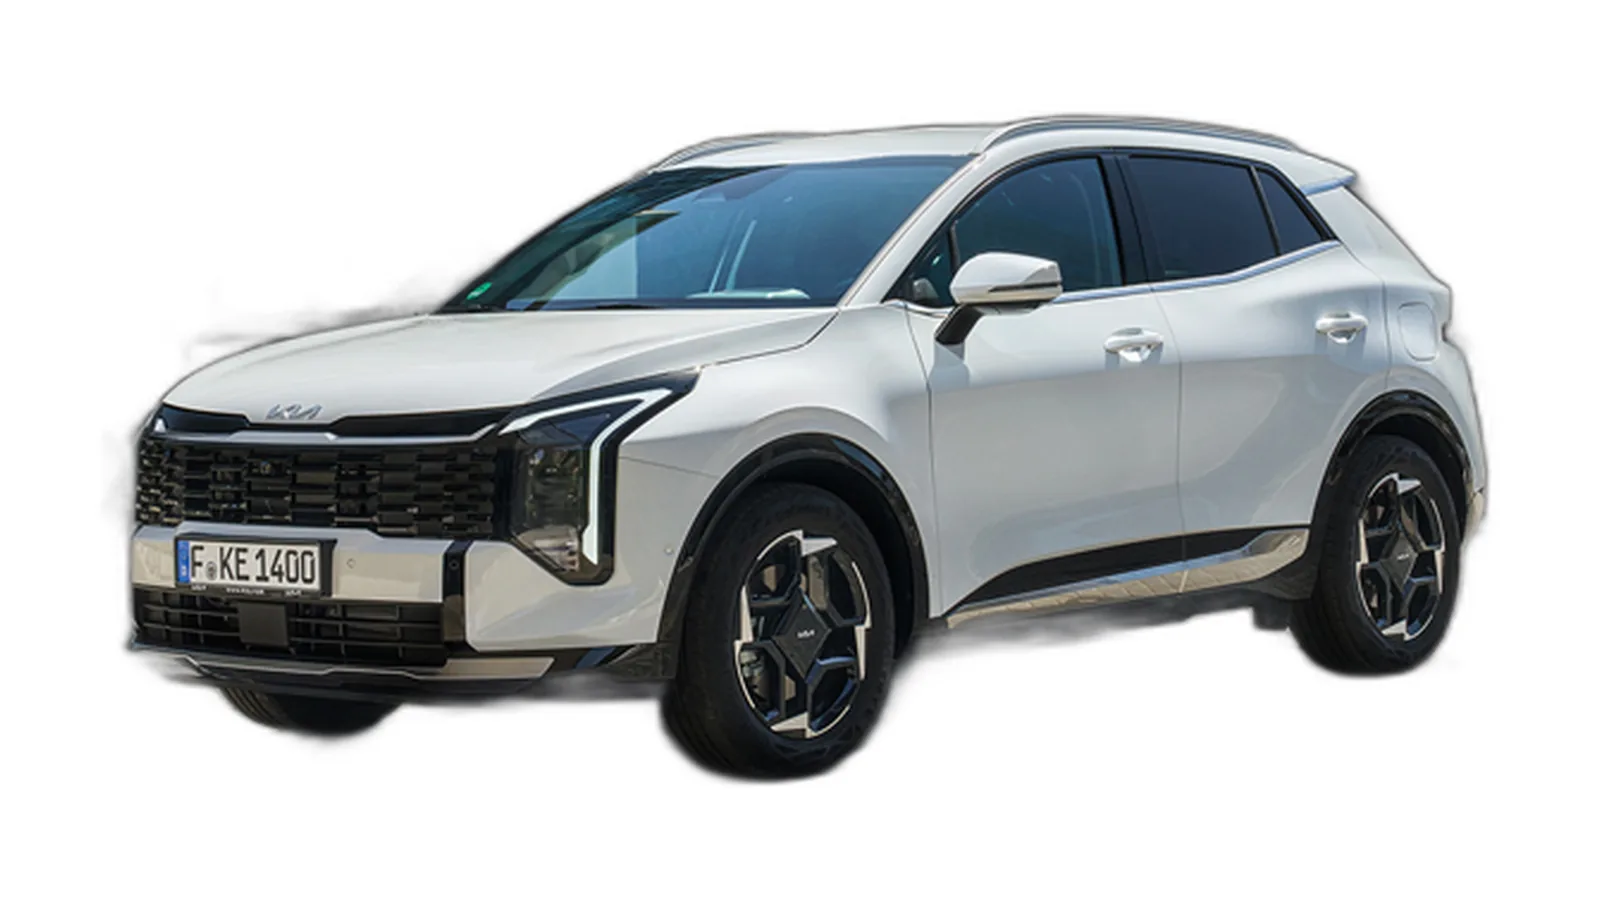
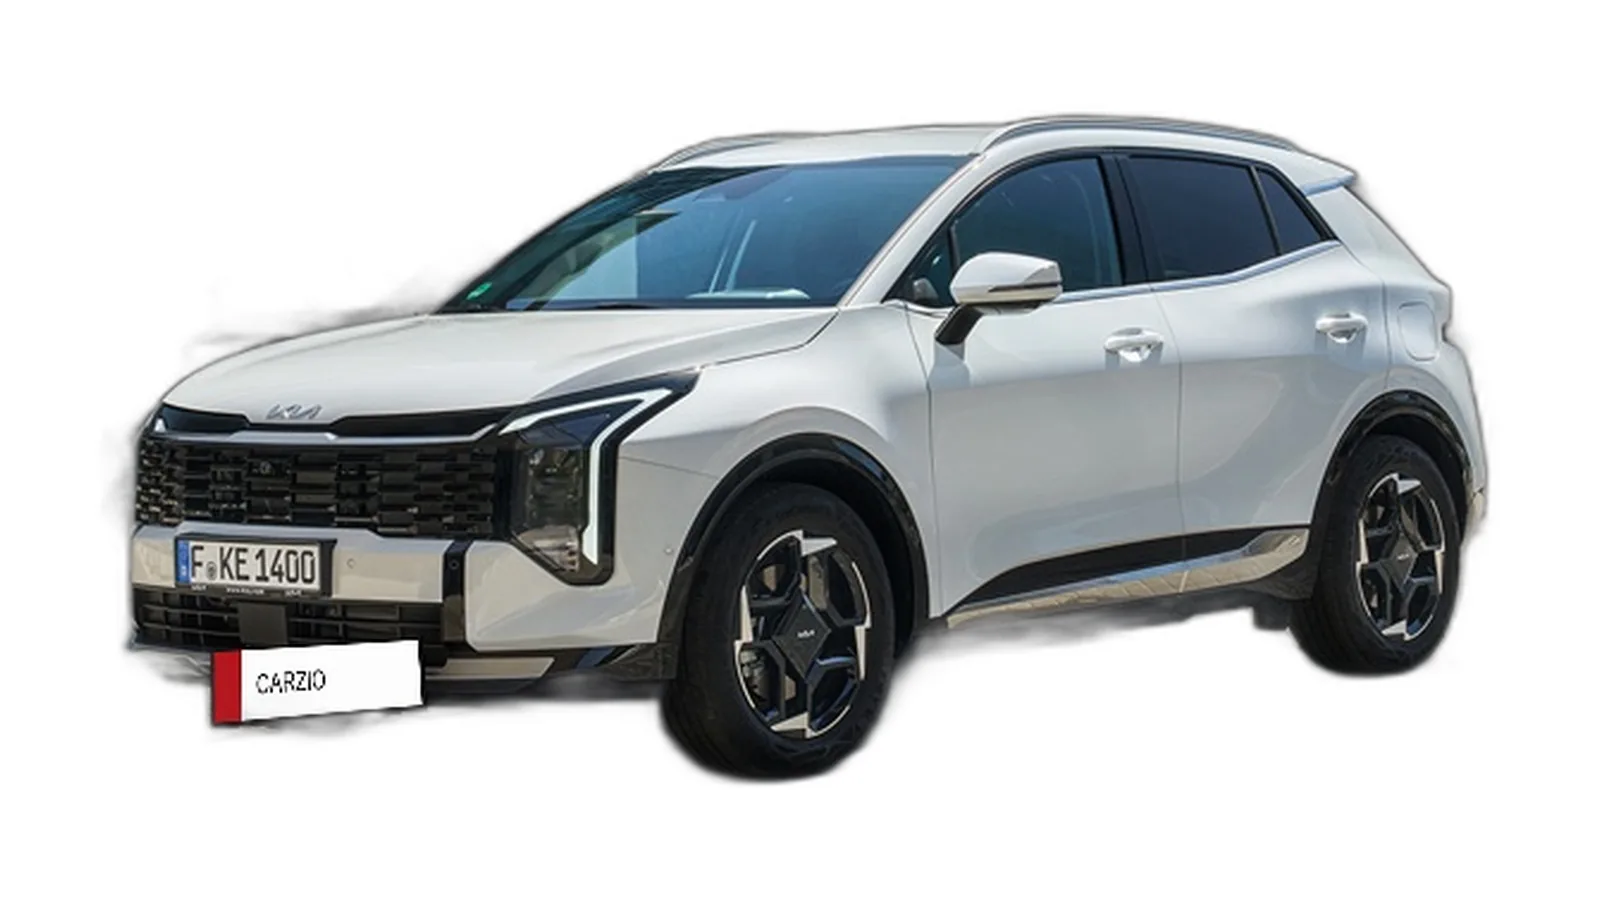
Finalize fleet order, Kia plate, homepage slides, category navigation and content image logic

Changed region(s): [[0.0938, 0.7156, 0.2812, 0.84], [0.3125, 0.7467, 0.4062, 0.8089]]

diff --git a/src/pages/BlogHub.tsx b/src/pages/BlogHub.tsx
@@ -150,18 +150,6 @@ export default function BlogHub() {
           </section>
         )}
 
-        <section className="mx-auto max-w-6xl px-4 pb-12">
-          <div className="mb-5 flex items-end justify-between gap-4">
-            <h2 className="font-heading text-xl font-semibold text-white">{t('blog.allArticles')}</h2>
-            <span className="text-sm text-white/55">{t('blog.articlesCount', { count: posts.length })}</span>
-          </div>
-          <div className="grid gap-5 md:grid-cols-2 lg:grid-cols-3">
-            {rest.map((post) => (
-              <BlogCard key={`${post.lang}-${post.slug}`} post={post} contentLang={contentLang} />
-            ))}
-          </div>
-        </section>
-
         <section className="mx-auto max-w-6xl px-4 pb-16">
           <h2 className="mb-5 font-heading text-xl font-semibold text-white">{t('blog.categories')}</h2>
           <div className="grid gap-4 md:grid-cols-3">
@@ -181,6 +169,18 @@ export default function BlogHub() {
                 />
               );
             })}
+          </div>
+        </section>
+
+        <section className="mx-auto max-w-6xl px-4 pb-12">
+          <div className="mb-5 flex items-end justify-between gap-4">
+            <h2 className="font-heading text-xl font-semibold text-white">{t('blog.allArticles')}</h2>
+            <span className="text-sm text-white/55">{t('blog.articlesCount', { count: posts.length })}</span>
+          </div>
+          <div className="grid gap-5 md:grid-cols-2 lg:grid-cols-3">
+            {rest.map((post) => (
+              <BlogCard key={`${post.lang}-${post.slug}`} post={post} contentLang={contentLang} />
+            ))}
           </div>
         </section>
 

diff --git a/src/data/fleet.ts b/src/data/fleet.ts
@@ -92,7 +92,7 @@ const fleetModels: CarModel[] = [
     ac: true,
     km: 'Unlimited',
     model: '2026',
-    description: 'New 2026 Dacia Duster with manual transmission and a diesel engine, ready for city driving and longer trips.',
+    description: 'The 2026 Dacia Duster with manual transmission: a practical five-seat SUV for city driving and longer trips around Morocco. It offers generous luggage space, air conditioning and unlimited mileage.',
     extras: [
       { name: 'Baby Seat', price: 0, perDay: true },
       { name: 'Booster Seat', price: 0, perDay: true },
@@ -231,25 +231,6 @@ const fleetModels: CarModel[] = [
       { name: 'Booster Seat', price: 0, perDay: true },
     ],
   },
-  {
-    id: 'volkswagen-touareg',
-    name: 'VOLKSWAGEN TOUAREG',
-    type: 'SUV',
-    pricePerDay: 100,
-    image: '/images/fleet/volkswagen-touareg.webp',
-    seats: 5,
-    doors: 5,
-    suitcases: 5,
-    transmission: 'Automatic',
-    ac: true,
-    km: 'Unlimited',
-    model: '2026',
-    description: 'Luxury SUV with premium comfort and powerful performance.',
-    extras: [
-      { name: 'Baby Seat', price: 0, perDay: true },
-      { name: 'Booster Seat', price: 0, perDay: true },
-    ],
-  },
 ];
 
 const carFeatures: Record<string, { gps: boolean; touchscreen: boolean }> = {
@@ -265,7 +246,6 @@ const carFeatures: Record<string, { gps: boolean; touchscreen: boolean }> = {
   'kia-sportage': { gps: true, touchscreen: true },
   'vw-troc-automatic': { gps: true, touchscreen: true },
   'hyundai-tucson': { gps: true, touchscreen: true },
-  'volkswagen-touareg': { gps: true, touchscreen: true },
 };
 
 export const fleet: Car[] = fleetModels.map((car) => ({

diff --git a/src/data/faq.ts b/src/data/faq.ts
@@ -32,13 +32,13 @@ const CATEGORY_IMAGES: Record<string, FaqCategoryImage> = {
     },
   },
   conditions: {
-    image: '/images/journal/carzio-driver-dacia.webp',
+    image: '/images/journal/carzio-grey-fleet-front.webp',
     alt: {
-      fr: "Conducteur avec sa Dacia à l'aéroport d'Agadir",
-      en: 'Driver with a Dacia at Agadir airport',
-      de: 'Fahrer mit einem Dacia am Flughafen Agadir',
-      es: 'Conductor con un Dacia en el aeropuerto de Agadir',
-      pl: 'Kierowca z Dacią na lotnisku w Agadirze',
+      fr: "Voitures de location prêtes à l'aéroport d'Agadir",
+      en: 'Rental cars ready at Agadir airport',
+      de: 'Mietwagen bereit am Flughafen Agadir',
+      es: 'Coches de alquiler listos en el aeropuerto de Agadir',
+      pl: 'Samochody na wynajem gotowe na lotnisku w Agadirze',
     },
   },
   assurance: {
@@ -62,13 +62,13 @@ const CATEGORY_IMAGES: Record<string, FaqCategoryImage> = {
     },
   },
   'conduite-maroc': {
-    image: '/images/journal/carzio-bordeaux-sign.webp',
+    image: '/images/journal/faq-duster-sand.webp',
     alt: {
-      fr: "Panneau Agadir Al Massira à l'aéroport",
-      en: 'Agadir Al Massira airport sign',
-      de: 'Schild am Flughafen Agadir Al Massira',
-      es: 'Señal del aeropuerto Agadir Al Massira',
-      pl: 'Znak lotniska Agadir Al Massira',
+      fr: 'Dacia Duster roulant sur une piste de sable',
+      en: 'Dacia Duster driving on a sandy track',
+      de: 'Dacia Duster auf einer Sandpiste',
+      es: 'Dacia Duster circulando por una pista de arena',
+      pl: 'Dacia Duster jadąca piaszczystą drogą',
     },
   },
 };

diff --git a/src/components/Fleet.tsx b/src/components/Fleet.tsx
@@ -11,7 +11,7 @@ interface FleetProps {
 export default function Fleet({ onBook, featured }: FleetProps) {
   const { t } = useTranslation();
   const [priceOverrides, setPriceOverrides] = useState<Record<string, number>>({});
-  // Homepage shows 8 cars, all under €50/day; the Cars page still shows all 12.
+  // Homepage features six Dacia models; the Cars page shows the full rental fleet.
   const featuredIds = [
     'dacia-sandero-stepway',
     'dacia-sandero-streetway',

diff --git a/docs/image-inventory.md b/docs/image-inventory.md
@@ -1,76 +1,72 @@
-# Content image inventory
+# Carzio content image inventory
 
-Last updated: 2026-11-08
+Last updated: 2026-11-09
 
-This file tracks the photographs used on the Blog, News and FAQ pages. No photograph is reused on more than one of those pages. The only exceptions are the brand logo and small interface icons.
+This is the image map used by the Blog, News and FAQ pages. No photograph is reused between those pages (FR and EN versions of the same article intentionally share one cover image).
 
-## Legend
+## Internet photographs used (2)
 
-- **Source**: `owner` = owner-supplied photograph in `New image/`, `news blog/` or `inspiration/`; `project` = existing project asset under `public/images`; `internet` = third-party photograph downloaded into `public/images/journal`.
-- **Processed**: every `public/images/journal/*.webp` and `public/images/fleet/*.webp` is 1600×900 WebP, 16:9, with the subject kept inside the frame.
+| File | Source | Author | License |
+|---|---|---|---|
+| `public/images/journal/touchscreen-carplay.webp` | [2023 Volkswagen ID.4 running wireless CarPlay](https://commons.wikimedia.org/wiki/File:2023_Volkswagen_ID.4_running_wireless_CarPlay.jpg) | Sunnyboy122 | CC0 |
+| `public/images/journal/touchscreen-navigation.webp` | [Toyota Aygo Mid 2018 Apple Carplay Integration](https://commons.wikimedia.org/wiki/File:Toyota_Aygo_Mid_2018_Apple_Carplay_Integration.jpg) | Butterhimmel | CC BY-SA 4.0 |
 
-## Internet photographs (3 only)
+Both are 16:9 WebP derivatives with a subtle Carzio logo watermark.
 
-| File | Source title | Author | License | Used on |
-|---|---|---|---|---|
-| `public/images/journal/age-driving-licence.webp` | UK driving licence (Pexels photo 45113) | Dom J | Pexels License | Blog article: Age, licence and drivers |
-| `public/images/journal/touchscreen-carplay.webp` | 2023 Volkswagen ID.4 running wireless CarPlay | Sunnyboy122 | CC0 | News category: Fleet & models |
-| `public/images/journal/touchscreen-navigation.webp` | Toyota Aygo Mid 2018 Apple CarPlay integration | Butterhimmel | CC BY-SA 4.0 | News article: GPS and touchscreen |
+## Owner-supplied and project photographs
 
-## Owner-supplied photographs used
-
-| Output file | Original source | Used on |
+| Output | Source | Used on |
 |---|---|---|
-| `carzio-booking-pickup.webp` | `New image/16.22.14 (1).jpeg` | Blog article: Renting a car in Agadir |
-| `carzio-wash-inspection.webp` | `news blog/16.24.24.jpeg` | Blog article: Standard or full insurance |
-| `carzio-airport-jogger.webp` | `New image/16.22.14 (2).jpeg` | News article: Agadir Al Massira airport delivery |
-| `carzio-documents-airport.webp` | `New image/16.22.14 (3).jpeg` | News category: Booking & paperwork |
-| `carzio-airport-fleet.webp` | `New image/16.24.24 (2).jpeg` | News category: Airports & pickup |
+| `carzio-booking-pickup.webp` | `New image/16.22.14 (1).jpeg` | Blog: Renting a car in Agadir |
+| `carzio-wash-inspection.webp` | `news blog/16.24.24.jpeg` | Blog: Standard or full insurance |
+| `carzio-driver-dacia.webp` | `inspiration/19.04.24.jpeg` | Blog: Age, licence and drivers |
+| `carzio-grey-fleet-side.webp` | `inspiration/19.10.45 (3).jpeg` | Blog category: Booking & payment |
+| `carzio-grey-fleet-airport.webp` | `news blog/16.24.23.jpeg` | Blog category: Insurance & excess |
+| `carzio-grey-fleet-vertical.webp` | `news blog/16.24.24 (2).jpeg` | Blog category: Age, licence & driving |
 | `carzio-new-routes.webp` | `New image/16.24.24.jpeg` | News hub hero |
-| `carzio-inspection-pair.webp` | `news blog/16.24.24 (1).jpeg` | News category: Insurance & deposit |
-| `news-family-group.webp` | `public/images/3.jpg` | News article: Full insurance from 5 days |
-| `carzio-luggage-cars.webp` | `news blog/16.24.25.jpeg` | News category: Family travel |
-| `carzio-boot-check.webp` | `inspiration/19.10.47.jpeg` | News article: Renting a car with children |
-| `carzio-munich-route.webp` | `inspiration/19.10.45 (1).jpeg` | News article: When to rent a car in Agadir |
-| `carzio-junior-pro.webp` | `inspiration/19.10.45.jpeg` | News category: Events & seasons |
-| `carzio-driver-dacia.webp` | `inspiration/19.04.24.jpeg` | FAQ category: Age, licence & drivers |
-| `faq-car-ready.webp` | `public/images/55.jpg` | FAQ category: Insurance & excess |
-| `carzio-airport-peugeot.webp` | `news blog/16.24.25 (1).jpeg` | FAQ category: Fuel, mileage & delivery |
-
-## Project assets used
-
-| Output file | Original source | Used on |
-|---|---|---|
-| `blog-agadir-aerial.webp` | `public/images/agadir-oufella.jpg` | Blog hub hero |
-| `blog-fleet-airport.webp` | `public/images/1.jpg` | Blog category: Booking & payment |
-| `blog-insurance-inspection.webp` | `public/images/11.jpg` | Blog category: Insurance & excess |
-| `blog-driver-map.webp` | `public/images/6.jpg` | Blog category: Age, licence & driving |
 | `news-country-road.webp` | `public/images/5.jpg` | News category: Driving in Morocco |
 | `news-headlight-safety.webp` | `public/images/4.jpg` | News category: Safety & rules |
+| `carzio-inspection-pair.webp` | `news blog/16.24.24 (1).jpeg` | News category: Insurance & deposit |
+| `carzio-documents-airport.webp` | `New image/16.22.14 (3).jpeg` | News category: Booking & paperwork |
+| `carzio-airport-fleet.webp` | `New image/16.24.24 (2).jpeg` | News category: Airports & pickup |
 | `news-taghazout-night.webp` | `public/images/Taghazout-by-night.jpg` | News category: Cities & sightseeing |
 | `news-tamraght-coast.webp` | `public/images/tamraght.jpg` | News category: Road trips & itineraries |
-| `news-family-group.webp` | `public/images/3.jpg` | News category: Family travel |
-| `news-agadir-marina.webp` | `public/images/puerto-deportivo-agadir.jpg` | News article: Agadir, Marrakech, Essaouira |
-| `news-desert-road.webp` | `public/images/111.jpg` | News article: Driving in Morocco |
-| `news-duster-track.webp` | `public/images/7.jpg` | News article: Road safety in Morocco |
-| `news-beach-convoy.webp` | `public/images/tamraght_beach.png` | News article: Road trips from Agadir |
-| `news-key-handover.webp` | `public/images/2.jpg` | News article: 0 MAD deposit |
-| `faq-rental-advisor.webp` | `public/images/about.jpg` | FAQ hub hero |
-| `faq-agadir-terminal.webp` | `public/images/agadir-airport.jpg` | FAQ extra band |
-| `faq-airport-assistance.webp` | `public/images/casablanca-airport.jpg` | FAQ hero |
+| `carzio-luggage-cars.webp` | `news blog/16.24.25.jpeg` | News category: Family travel |
+| `touchscreen-carplay.webp` | internet (see above) | News category: Fleet & models |
+| `carzio-junior-pro.webp` | `inspiration/19.10.45.jpeg` | News category: Events & seasons |
+| `dacia-sandero-streetway.webp` | `public/images/dacia-sandero-streetway.jpg` | News category: Budget & practical tips |
+| `news-agadir-marina.webp` | `public/images/puerto-deportivo-agadir.jpg` | News: Agadir, Marrakech, Essaouira |
+| `carzio-sportage-white.webp` | `inspiration/19.10.46 (7).jpeg` | News: Full insurance from 5 days |
+| `hyundai-i10.webp` | `public/images/hyundai-i10-bva.png` | News: Car rental budget in Agadir |
+| `news-key-handover.webp` | `public/images/2.jpg` | News: 0 MAD deposit |
+| `news-desert-road.webp` | `public/images/111.jpg` | News: Driving in Morocco |
+| `carzio-munich-route.webp` | `inspiration/19.10.45 (1).jpeg` | News: When to rent a car in Agadir |
+| `touchscreen-navigation.webp` | internet (see above) | News: GPS and touchscreen |
+| `carzio-airport-jogger.webp` | `inspiration/19.10.44 (2).jpeg` | News: Agadir Al Massira airport delivery |
+| `carzio-boot-check.webp` | `inspiration/19.10.47.jpeg` | News: Renting a car with children |
+| `news-beach-convoy.webp` | `public/images/tamraght_beach.png` | News: Road trips from Agadir |
+| `news-duster-track.webp` | `public/images/7.jpg` | News: Road safety in Morocco |
+| `faq-rental-advisor.webp` | `public/images/about.jpg` | FAQ category: Booking & payment |
+| `carzio-grey-fleet-front.webp` | `inspiration/19.10.45 (4).jpeg` | FAQ category: Age, licence & drivers |
+| `faq-car-ready.webp` | `public/images/55.jpg` | FAQ category: Insurance & excess |
+| `carzio-airport-peugeot.webp` | `news blog/16.24.25 (1).jpeg` | FAQ category: Fuel, mileage & delivery |
 | `faq-duster-sand.webp` | `public/images/66.jpg` | FAQ category: Driving in Morocco |
+| `faq-airport-assistance.webp` | `public/images/casablanca-airport.jpg` | FAQ hub hero |
+| `faq-extra-taghazout.webp` | `public/images/taghazout-beach.jpg` | FAQ extra band |
+| `blog-agadir-aerial.webp` | `public/images/agadir-oufella.jpg` | Blog hub hero |
 
-## Fleet images used in content
+## Fleet images
 
-| Output file | Used on |
-|---|---|
-| `public/images/fleet/dacia-sandero-streetway.webp` | News category: Budget & practical tips |
-| `public/images/fleet/hyundai-i10.webp` | News article: Car rental budget in Agadir |
+All car-card images are 16:9 WebP on a pure white background, trimmed and enlarged inside the frame:
 
-The Blog model strip uses `dacia-sandero-stepway.webp`, `dacia-logan.webp`, `renault-clio-5.webp` and `peugeot-208.webp` from the same fleet set. These appear on the Blog page and the Our Cars page, which is allowed.
+`dacia-sandero-stepway.webp`, `dacia-sandero-streetway.webp`, `dacia-logan.webp`, `dacia-duster-automatic-2025.webp`, `dacia-duster-manual-2026.webp`, `dacia-jogger.webp`, `renault-clio-5.webp`, `peugeot-208.webp`, `hyundai-i10.webp`, `vw-troc.webp`, `kia-sportage.webp`, `hyundai-tucson.webp`.
 
-## Removed
+The Kia Sportage derivative has a clean white Moroccan-style plate with no readable registration number.
 
-- `public/images/journal/car-keys.jpg` deleted (Ferrari/BMW/Porsche keys, not relevant and misleading).
-- All previous Wikimedia internet images removed from Blog/News/FAQ content except the three internet photographs listed above. Their credit entries were removed from `src/data/photoCredits.ts`.
-- `public/images/journal/agadir-marina.jpg` is no longer used on Blog/News/FAQ; it remains available for other pages.
+## Hero slides
+
+`public/images/hero/new-slide-2.webp` through `new-slide-7.webp`, in filename order from `new 6 home page`. Slide 1 remains `/images/55.jpg`.
+
+## About
+
+`public/images/about-new.webp` from `new about foto/Carzio_ Drive with Confidence.png`.

diff --git a/src/content/blog/fr/age-permis-conducteurs-location-maroc.md b/src/content/blog/fr/age-permis-conducteurs-location-maroc.md
@@ -6,8 +6,8 @@ title: "Âge, permis et conducteurs : qui peut louer une voiture au Maroc ?"
 description: "23 ans minimum, permis détenu depuis 4 ans, deuxième conducteur gratuit, permis étranger accepté et siège bébé offert. Les conditions Carzio expliquées."
 date: 2026-11-03
 updated: 2026-11-03
-image: /images/journal/carzio-grey-fleet-front.webp
-imageAlt: "Voitures de location prêtes pour la remise des clés"
+image: /images/journal/carzio-driver-dacia.webp
+imageAlt: "Conducteur avec sa Dacia à l'aéroport d'Agadir"
 readingTime: 7
 featured: true
 published: true

diff --git a/src/content/news/fr/assurance-complete-cinq-jours.md b/src/content/news/fr/assurance-complete-cinq-jours.md
@@ -5,8 +5,8 @@ category: assurance-caution
 title: "Assurance complète dès 5 jours : comment ça marche"
 description: "Assurance standard incluse, assurance complète en option à partir de 5 jours facturés. Le point en clair, avec un exemple de calcul."
 date: 2026-11-03
-image: /images/journal/carzio-grey-fleet-vertical.webp
-imageAlt: "Véhicules inspectés avant la location"
+image: /images/journal/carzio-sportage-white.webp
+imageAlt: "Kia Sportage blanche prête pour la location"
 readingTime: 4
 featured: true
 published: true

diff --git a/src/content/blog/en/age-permis-conducteurs-location-maroc.md b/src/content/blog/en/age-permis-conducteurs-location-maroc.md
@@ -6,8 +6,8 @@ title: "Age, licence and drivers: who can rent a car in Morocco?"
 description: "Minimum age 23, licence held for 4 years, free second driver, foreign licences accepted and free baby seats. Carzio's requirements explained."
 date: 2026-11-03
 updated: 2026-11-03
-image: /images/journal/carzio-grey-fleet-front.webp
-imageAlt: "Rental cars ready for key handover"
+image: /images/journal/carzio-driver-dacia.webp
+imageAlt: "Driver with a Dacia at Agadir airport"
 readingTime: 7
 featured: true
 published: true

diff --git a/src/content/news/en/assurance-complete-cinq-jours.md b/src/content/news/en/assurance-complete-cinq-jours.md
@@ -5,8 +5,8 @@ category: assurance-caution
 title: "Full insurance from 5 days: how it works"
 description: "Standard insurance included, full insurance optional from 5 billed days. The plain version, with a worked example."
 date: 2026-11-03
-image: /images/journal/carzio-grey-fleet-vertical.webp
-imageAlt: "Vehicles inspected before rental"
+image: /images/journal/carzio-sportage-white.webp
+imageAlt: "White Kia Sportage ready for rental"
 readingTime: 4
 featured: true
 published: true
